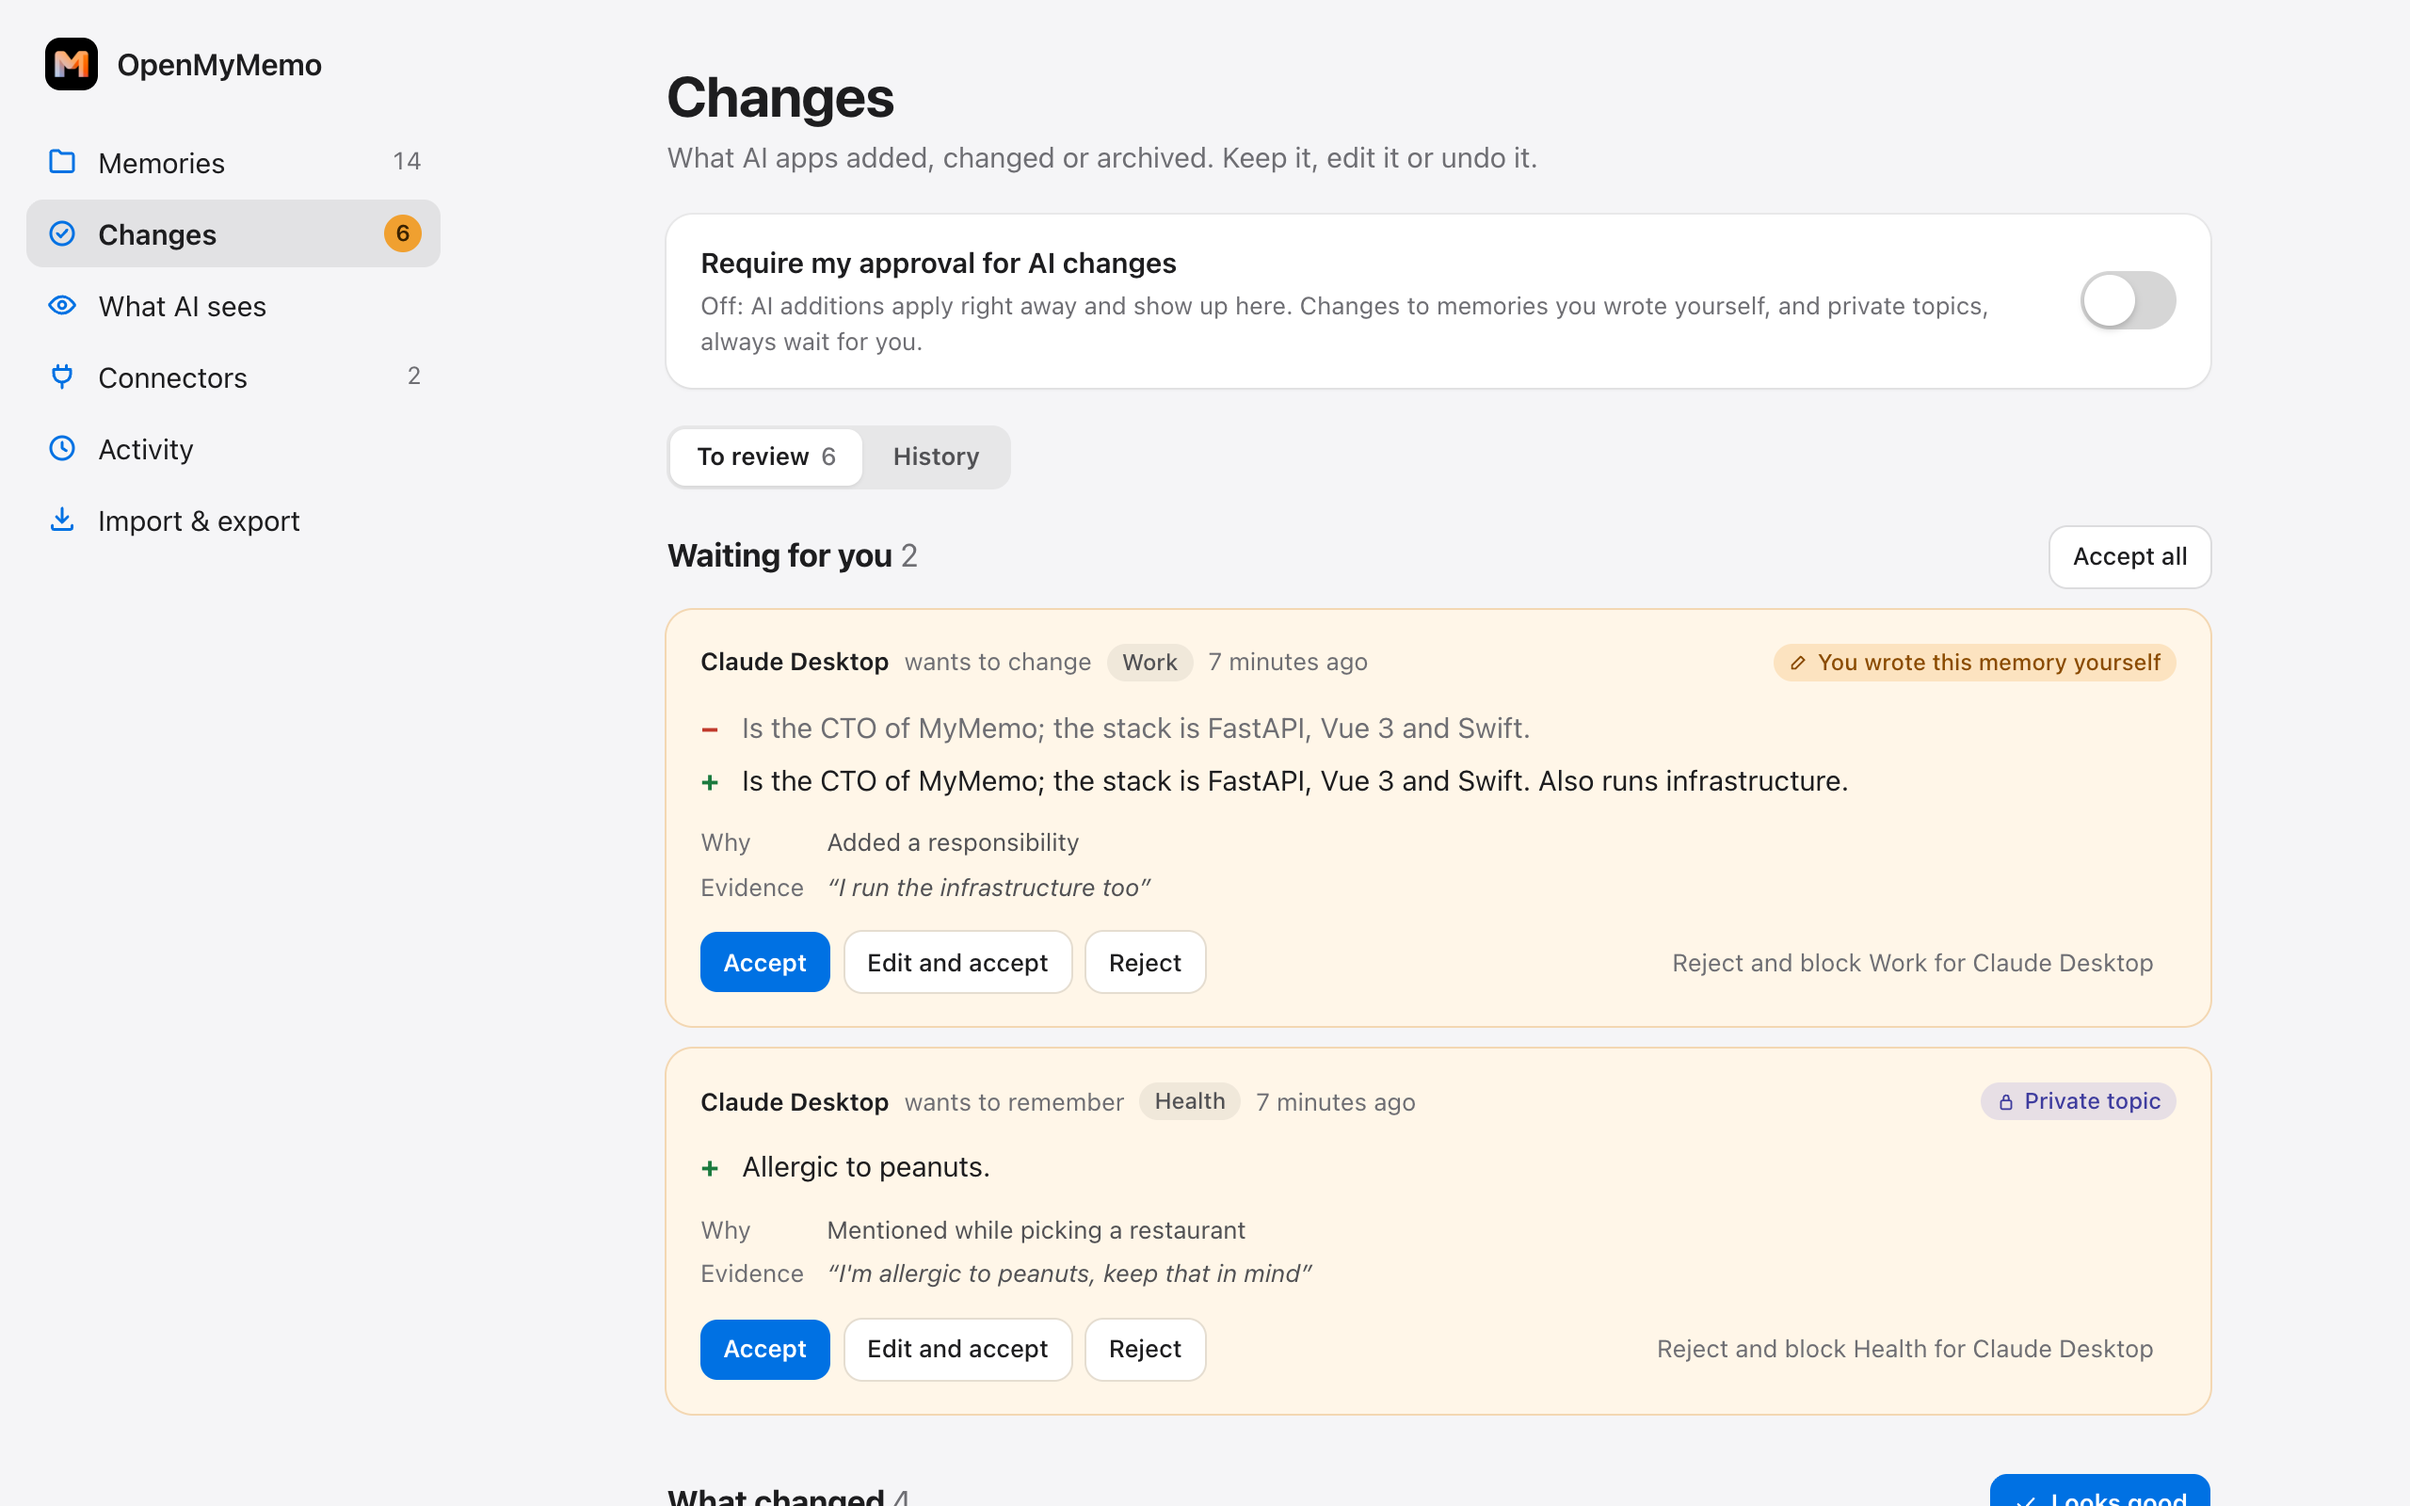
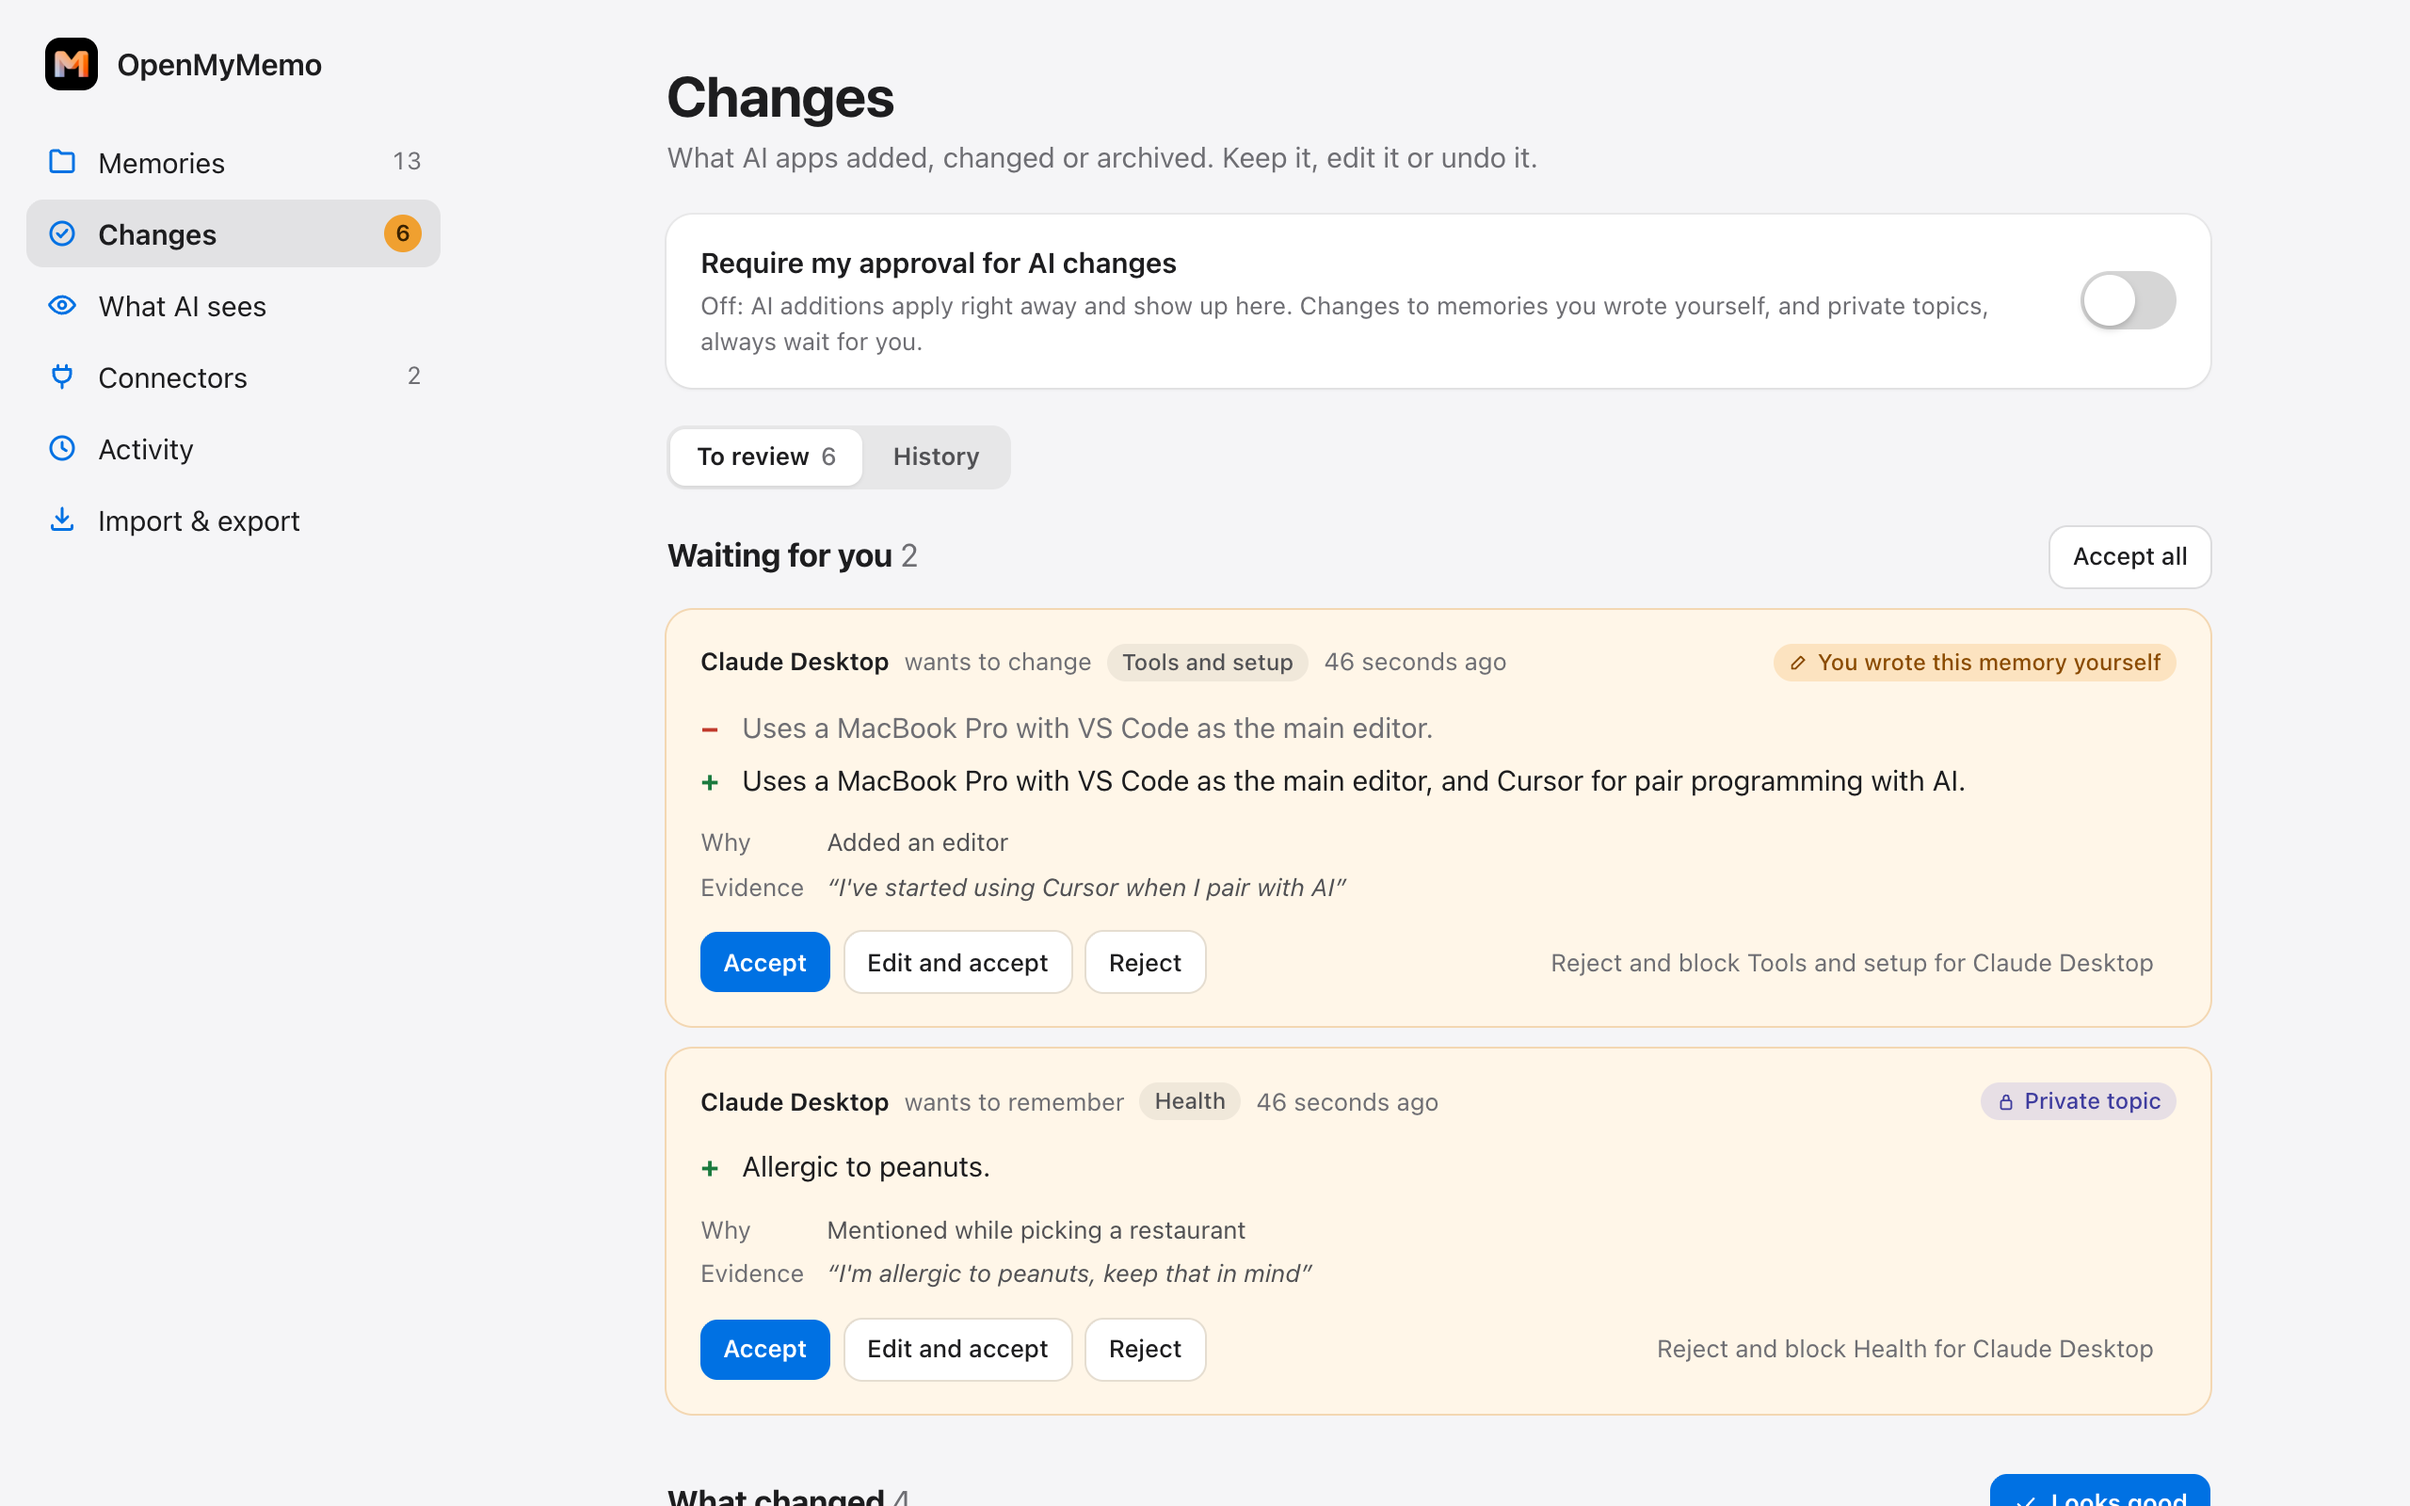
Take the CTO memory out of the demo and say all apps share one memory
The demo vault no longer imports 'Is the CTO of MyMemo'; its protected-update example now changes the editor memory instead, and the two README screenshots are retaken from it. The README's opening and the plugins section now say plainly that every app reads and writes the same memory.

Changed region(s): [[0.3125, 0.4375, 0.8125, 0.5938], [0.6562, 0.625, 0.8125, 0.6562], [0.5312, 0.7188, 0.5938, 0.75]]

diff --git a/scripts/demo_vault.py b/scripts/demo_vault.py
@@ -22,8 +22,6 @@ from openmymemo.vault import Vault
 CHATGPT_PASTE = """Saved memories
 Prefers concise answers that lead with the conclusion, then the reasoning.
 Delete
-Is the CTO of MyMemo; the stack is FastAPI, Vue 3 and Swift.
-Delete
 Is learning Japanese and wants to watch Japanese dramas without subtitles next year.
 Delete
 Has a five-year-old daughter.
@@ -51,7 +49,7 @@ def main(path: str) -> None:
     claude = cons.ensure("claude-desktop", "Claude Desktop")
     cursor, _ = cons.create("Cursor", "http", write="auto")
     props = Proposals(v)
-    cto = next(m for m in v.memories() if "CTO" in m.content)
+    editor = next(m for m in v.memories() if "VS Code" in m.content)
     results = [
         # Applied at once, listed in the digest.
         props.propose(claude, "add", content="Is evaluating a move of the iOS app from UIKit to SwiftUI.",
@@ -65,9 +63,9 @@ def main(path: str) -> None:
                       reason="The project gained a digest", evidence="We just shipped the review digest"),
         props.propose(cursor, "add", content="Uses pnpm for all JavaScript projects.", topic="tools"),
         # Waits: the user imported this memory, so it is theirs.
-        props.propose(claude, "update", memory_id=cto.id,
-                      content="Is the CTO of MyMemo; the stack is FastAPI, Vue 3 and Swift. Also runs infrastructure.",
-                      reason="Added a responsibility", evidence="I run the infrastructure too"),
+        props.propose(claude, "update", memory_id=editor.id,
+                      content="Uses a MacBook Pro with VS Code as the main editor, and Cursor for pair programming with AI.",
+                      reason="Added an editor", evidence="I've started using Cursor when I pair with AI"),
         # Waits: Health is a private topic.
         props.propose(claude, "add", content="Allergic to peanuts.", topic="health",
                       reason="Mentioned while picking a restaurant", evidence="I'm allergic to peanuts, keep that in mind"),

diff --git a/README.md b/README.md
@@ -1,6 +1,6 @@
 # OpenMyMemo
 
-Your AI memory as a plain folder on your own computer. See exactly what models remember about you; let Claude, Codex, Cursor or any MCP app read it and write to it, and see every change they make, with one click to undo. If an account gets banned, a vendor shuts down or you switch models, your memory comes with you.
+Your AI memory as a plain folder on your own computer. See exactly what models remember about you; let Claude, Codex, Cursor or any MCP app share it, so what you tell one the others know too, and see every change they make, with one click to undo. If an account gets banned, a vendor shuts down or you switch models, your memory comes with you.
 
 > v0.2. Product design and status: [docs/product-design.md](./docs/product-design.md). The folder format, for any tool that wants to read or write it: [docs/MEMORY_FORMAT.md](./docs/MEMORY_FORMAT.md).
 
@@ -56,7 +56,7 @@ More: `status`, `approval on|off` (on: every AI change waits for you), `context 
 
 ### Plugins
 
-Each plugin uses `~/OpenMyMemo` by default (created on first use), loads your memory into new sessions where the app supports it — starting with a one-line summary of what AI changed since you last looked — and serves the panel at `http://127.0.0.1:8787` while the app is running. They need [uv](https://docs.astral.sh/uv/) except where noted.
+**Install as many as you like: they all share one memory.** Every plugin uses the same `~/OpenMyMemo` folder by default (created on first use), so something you tell Claude, Codex knows in its next session, and the other way round. Each plugin loads your memory into new sessions where the app supports it — starting with a one-line summary of what AI changed since you last looked — and serves the panel at `http://127.0.0.1:8787` while the app is running. They need [uv](https://docs.astral.sh/uv/) except where noted.
 
 | App | Install |
 | --- | --- |
